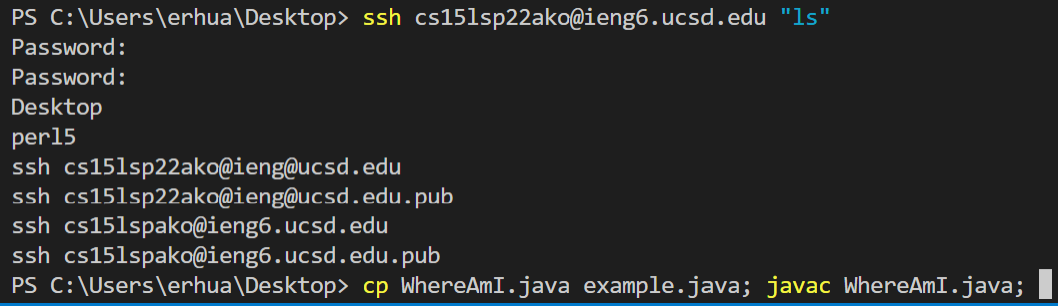
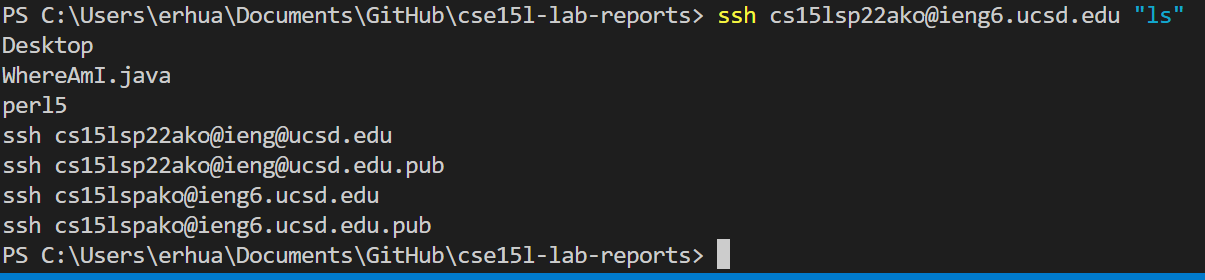
Fixing backticks and optimizing

Changed region(s): [[0.0, 0.2286, 1.0, 1.0], [0.0, 0.0, 0.9981, 0.1143], [0.0, 0.1143, 0.1248, 0.2]]

diff --git a/OtherMain.java b/OtherMain.java
@@ -1,0 +1,10 @@
+public class WhereAmI {
+public static void main(String[] args) {
+    System.out.println(System.getProperty("os.name"));
+    System.out.println(System.getProperty("user.name"));
+    System.out.println(System.getProperty("user.home"));
+    System.out.println(System.getProperty("user.dir"));
+    System.out.println("Hi");
+    }
+      
+}

diff --git a/WhereAmI.java b/WhereAmI.java
@@ -1,0 +1,10 @@
+class WhereAmI {
+public static void main(String[] args) {
+    System.out.println(System.getProperty("os.name"));
+    System.out.println(System.getProperty("user.name"));
+    System.out.println(System.getProperty("user.home"));
+    System.out.println(System.getProperty("user.dir"));
+    System.out.println("Hi");
+    }
+      
+}

diff --git a/lab-report-1-week-2.md b/lab-report-1-week-2.md
@@ -9,7 +9,11 @@ Visit the [Visual Studio Code](https://code.visualstudio.com/) website and downl
 
 ## **Remotely Connecting**
 
-To remotely connect, first install [OpenSSH](https://docs.microsoft.com/en-us/windows-server/administration/openssh/openssh_install_firstuse) if your on windows, then find your account [here](https://sdacs.ucsd.edu/~icc/index.php). Next open a terminal in VScode(by clicking terminal -> New Terminal) and type in the command : "ssh cs15lsp22zz@ieng6.ucsd.edu" and replace the "zz" with your account specific letters. 
+To remotely connect, first install [OpenSSH](https://docs.microsoft.com/en-us/windows-server/administration/openssh/openssh_install_firstuse) if your on windows, then find your account [here](https://sdacs.ucsd.edu/~icc/index.php). Next open a terminal in VScode(by clicking terminal -> New Terminal) and type in the command : 
+```
+ssh cs15lsp22zz@ieng6.ucsd.edu
+```
+ and replace the "zz" with your account specific letters. 
 
 ![Image](Vscodelogin.png)
 
@@ -42,12 +46,22 @@ An example of using cd:
 The command ls lists all the files in the current directory except hidden ones.
 
 ## **Moving files with scp**
-To copy or move a file(a java file in this example) from your computer to the server, we can use the command "scp" which will always run on your computer(the client side). Type "scp" then "filename.java " followed by your username and "~/".
+To copy or move a file(a java file in this example) from your computer to the server, we can use the command "scp" which will always run on your computer(the client side). Scp stands for secure copy.
+
+Type
+```
+scp <filename.java> cs15lsp22zz@ieng6.ucsd.edu~/
+```
+
 
 ![Image](scp.png)
 
 ## **Setting an SSH Key**
- The command "ssh-keygen" allows us to access code without logging in each time, instead asking for a passphrase. This passphrase can(and should) be set to empty for easier use. When you make a keygen it should look like this. Next time you use scp or ssh it should not prompt you for your password. 
+ The command 
+ ```
+ ssh-keygen
+ ```
+ allows us to access code without logging in each time, instead asking for a passphrase. This passphrase can(and should) be set to empty for easier use. When you make a keygen it should look like this. Next time you use scp or ssh it should not prompt you for your password. 
 
 ![Image](keygen.png)
 
@@ -55,6 +69,7 @@ To copy or move a file(a java file in this example) from your computer to the se
 You can use ssh to directly run commands on the server. You can also use semicolins to run multiple commands at once. You can also use the up arrow to run previous commands.
 
 ![Image](optimizing.png)
+)
 
 
 
